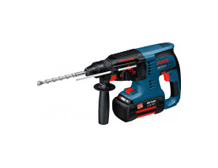
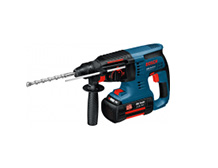
заменил картинки товаров в каталоге

Changed region(s): [[0.1101, 0.2381, 0.8532, 0.7738]]

diff --git a/catalog.html b/catalog.html
@@ -184,7 +184,7 @@
                       <a class="button-bookmark" href="#">В закладки</a>
                     </p>
                     <p class="catalog-item-image">
-                        <img src="img/content/catalog_items/1.jpg" width="218" height="168" alt="Перфоратор Bosch BFG 2000">
+                        <img src="img/content/catalog_items/4.jpg" width="218" height="168" alt="Перфоратор Bosch BFG 2000">
                     </p>
           					<p class="price">12500 Р.</p>
 
@@ -227,7 +227,7 @@
                       <a class="button-bookmark" href="#">В закладки</a>
                     </p>
                     <p class="catalog-item-image">
-                        <img src="img/content/catalog_items/1.jpg" width="218" height="168" alt="Перфоратор Bosch BFG 2000">
+                        <img src="img/content/catalog_items/4.jpg" width="218" height="168" alt="Перфоратор Bosch BFG 2000">
                     </p>
           					<p class="price">12500 Р.</p>
           				</li>
@@ -269,7 +269,7 @@
                       <a class="button-bookmark" href="#">В закладки</a>
                     </p>
                     <p class="catalog-item-image">
-                        <img src="img/content/catalog_items/1.jpg" width="218" height="168" alt="Перфоратор Bosch BFG 2000">
+                        <img src="img/content/catalog_items/4.jpg" width="218" height="168" alt="Перфоратор Bosch BFG 2000">
                     </p>
                     <p class="price">12500 Р.</p>
                   </li>

diff --git a/css/style.css b/css/style.css
@@ -1187,13 +1187,12 @@ footer .wrapper {
   position: absolute;
   width: 218px;
   height: 168px;
-  top: 0;
+  top: -1px;
   left: 0;
   text-align: center;
   border: none;
   background-color: #ffffff;
   z-index: 20;
-  border: none;
 }
 
 .catalog-item-image img {
@@ -1447,7 +1446,7 @@ footer .wrapper {
   background-position: 191px 32px;
   margin: 0;
   order: 6;
-  align-self: stretch;
+
 }
 
 .promo-item h3 {
